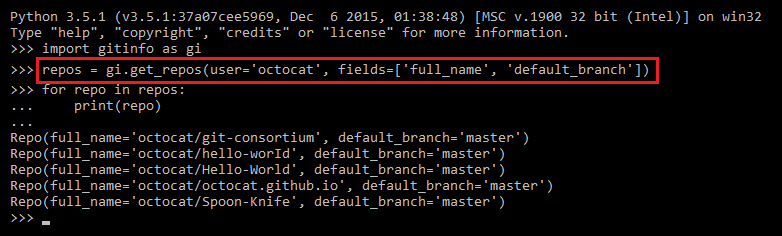
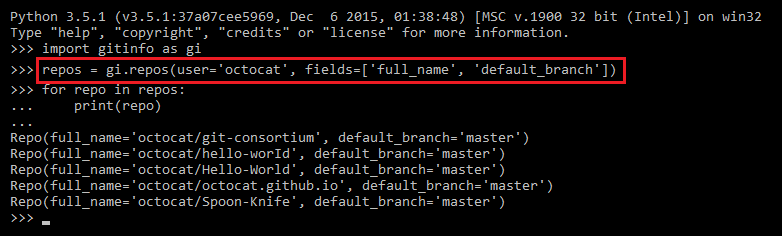
update documentation

Changed region(s): [[0.1535, 0.2373, 0.8593, 0.3559]]

diff --git a/README.md b/README.md
@@ -19,7 +19,7 @@ Here's an example of how to retrieve all public repos in the Microsoft organizat
 
 ```
 import gitinfo as gi
-ms_repos = gi.get_repos(org='microsoft')
+ms_repos = gi.repos(org='microsoft')
 for repo in ms_repos:
     print(repo)
 ```
@@ -33,7 +33,7 @@ You can set "verbose mode" on to get status information displayed to the console
 ```
 import gitinfo as gi
 gi.verbose(True)
-ms_repos = gi.get_repos(org='microsoft')
+ms_repos = gi.repos(org='microsoft')
 for repo in ms_repos:
     print(repo)
 ```
@@ -65,21 +65,21 @@ You can also store GitHub usernames and PATs in a ```github_users.json``` file i
     "user2": "Personal Access Token for user2"
 }
 ```
-Then you can use the user() function to set the username for subsquent operations. For example:
+Then you can use the ```auth_user()``` function to set the username for subsquent operations. For example:
 
 ```
 import gitingo as gi
-gi.user('user1')
+gi.auth_user('user1')
 # make GitHub API calls as user1
-gi.user('user2')
+gi.auth_user('user2')
 # make GitHub API calls as user2
 ```
 
 ## saving results
-The ```get_members()``` and ```get_repos()``` functions return a list of _namedtuple_ objects. The ```write_csv()``` function can be used to write these lists to a CSV file:
+The ```members()``` and ```repos()``` functions return a list of _namedtuple_ objects. The ```write_csv()``` function can be used to write these lists to a CSV file:
 
 ```
 import gitinfo as gi
-ms_members = gi.get_members(org='microsoft')
+ms_members = gi.members(org='microsoft')
 gi.write_csv(ms_members, 'MicrosoftMembers.csv')
 ```
